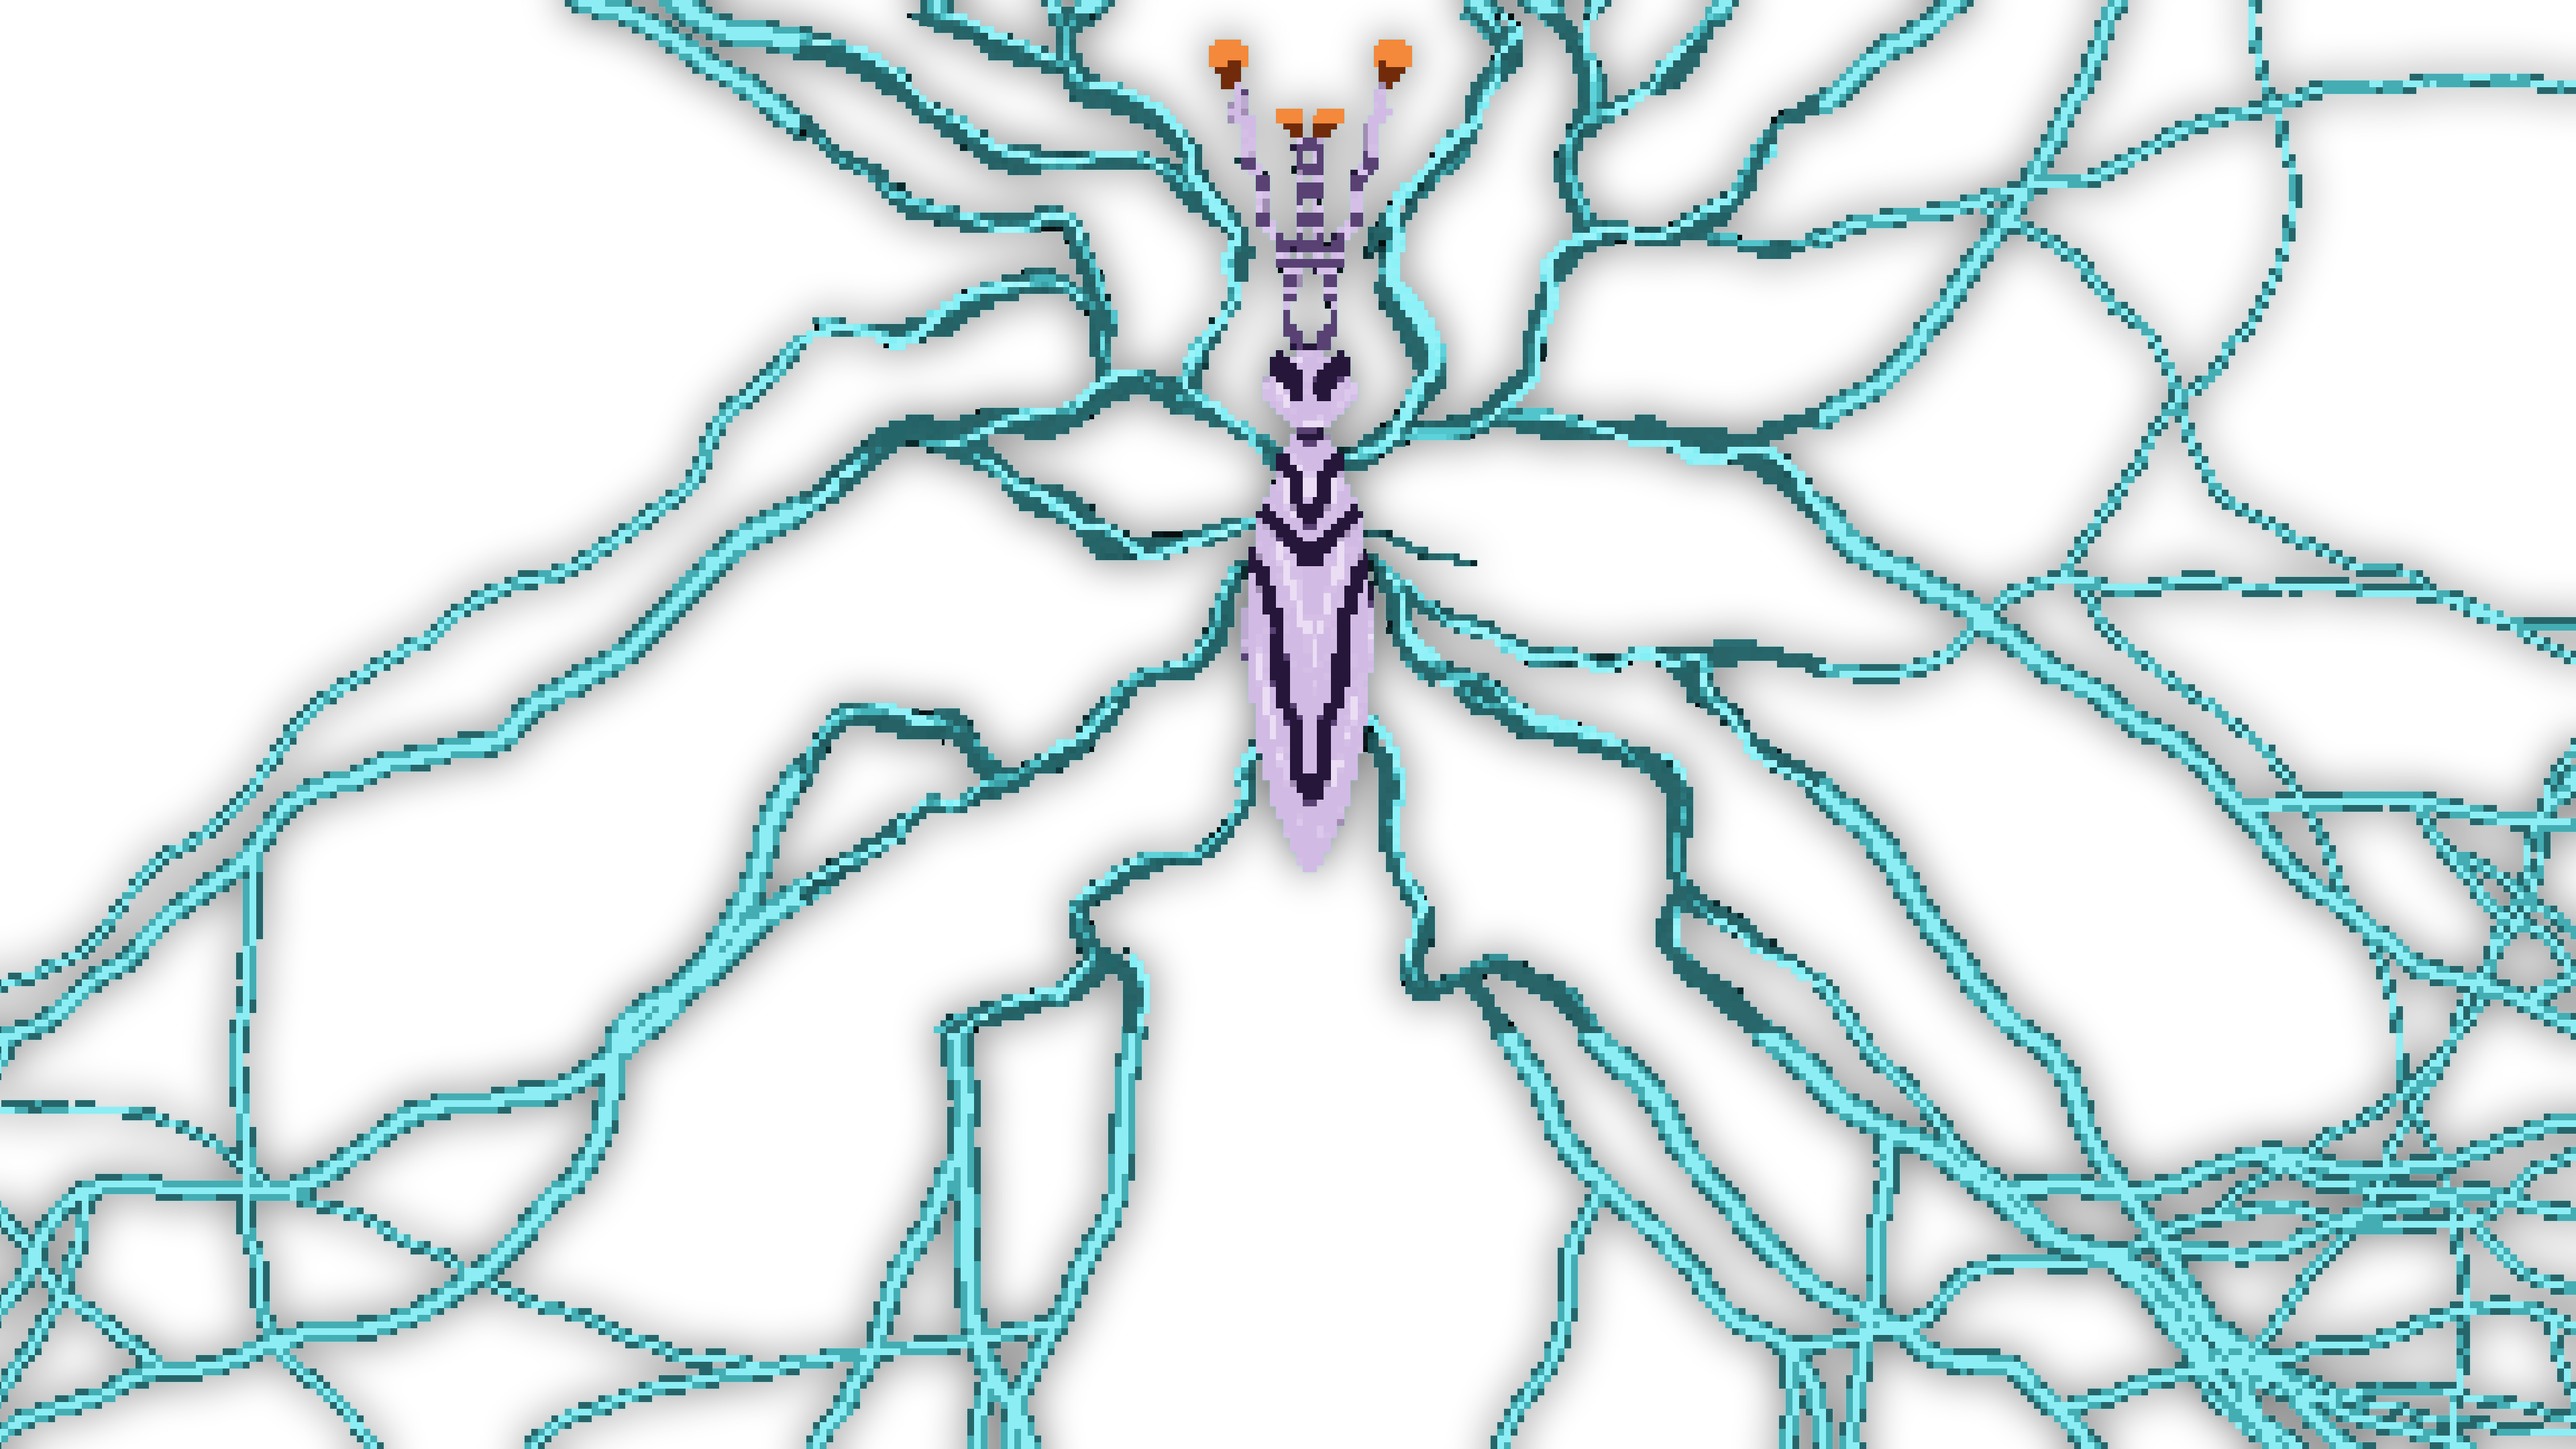
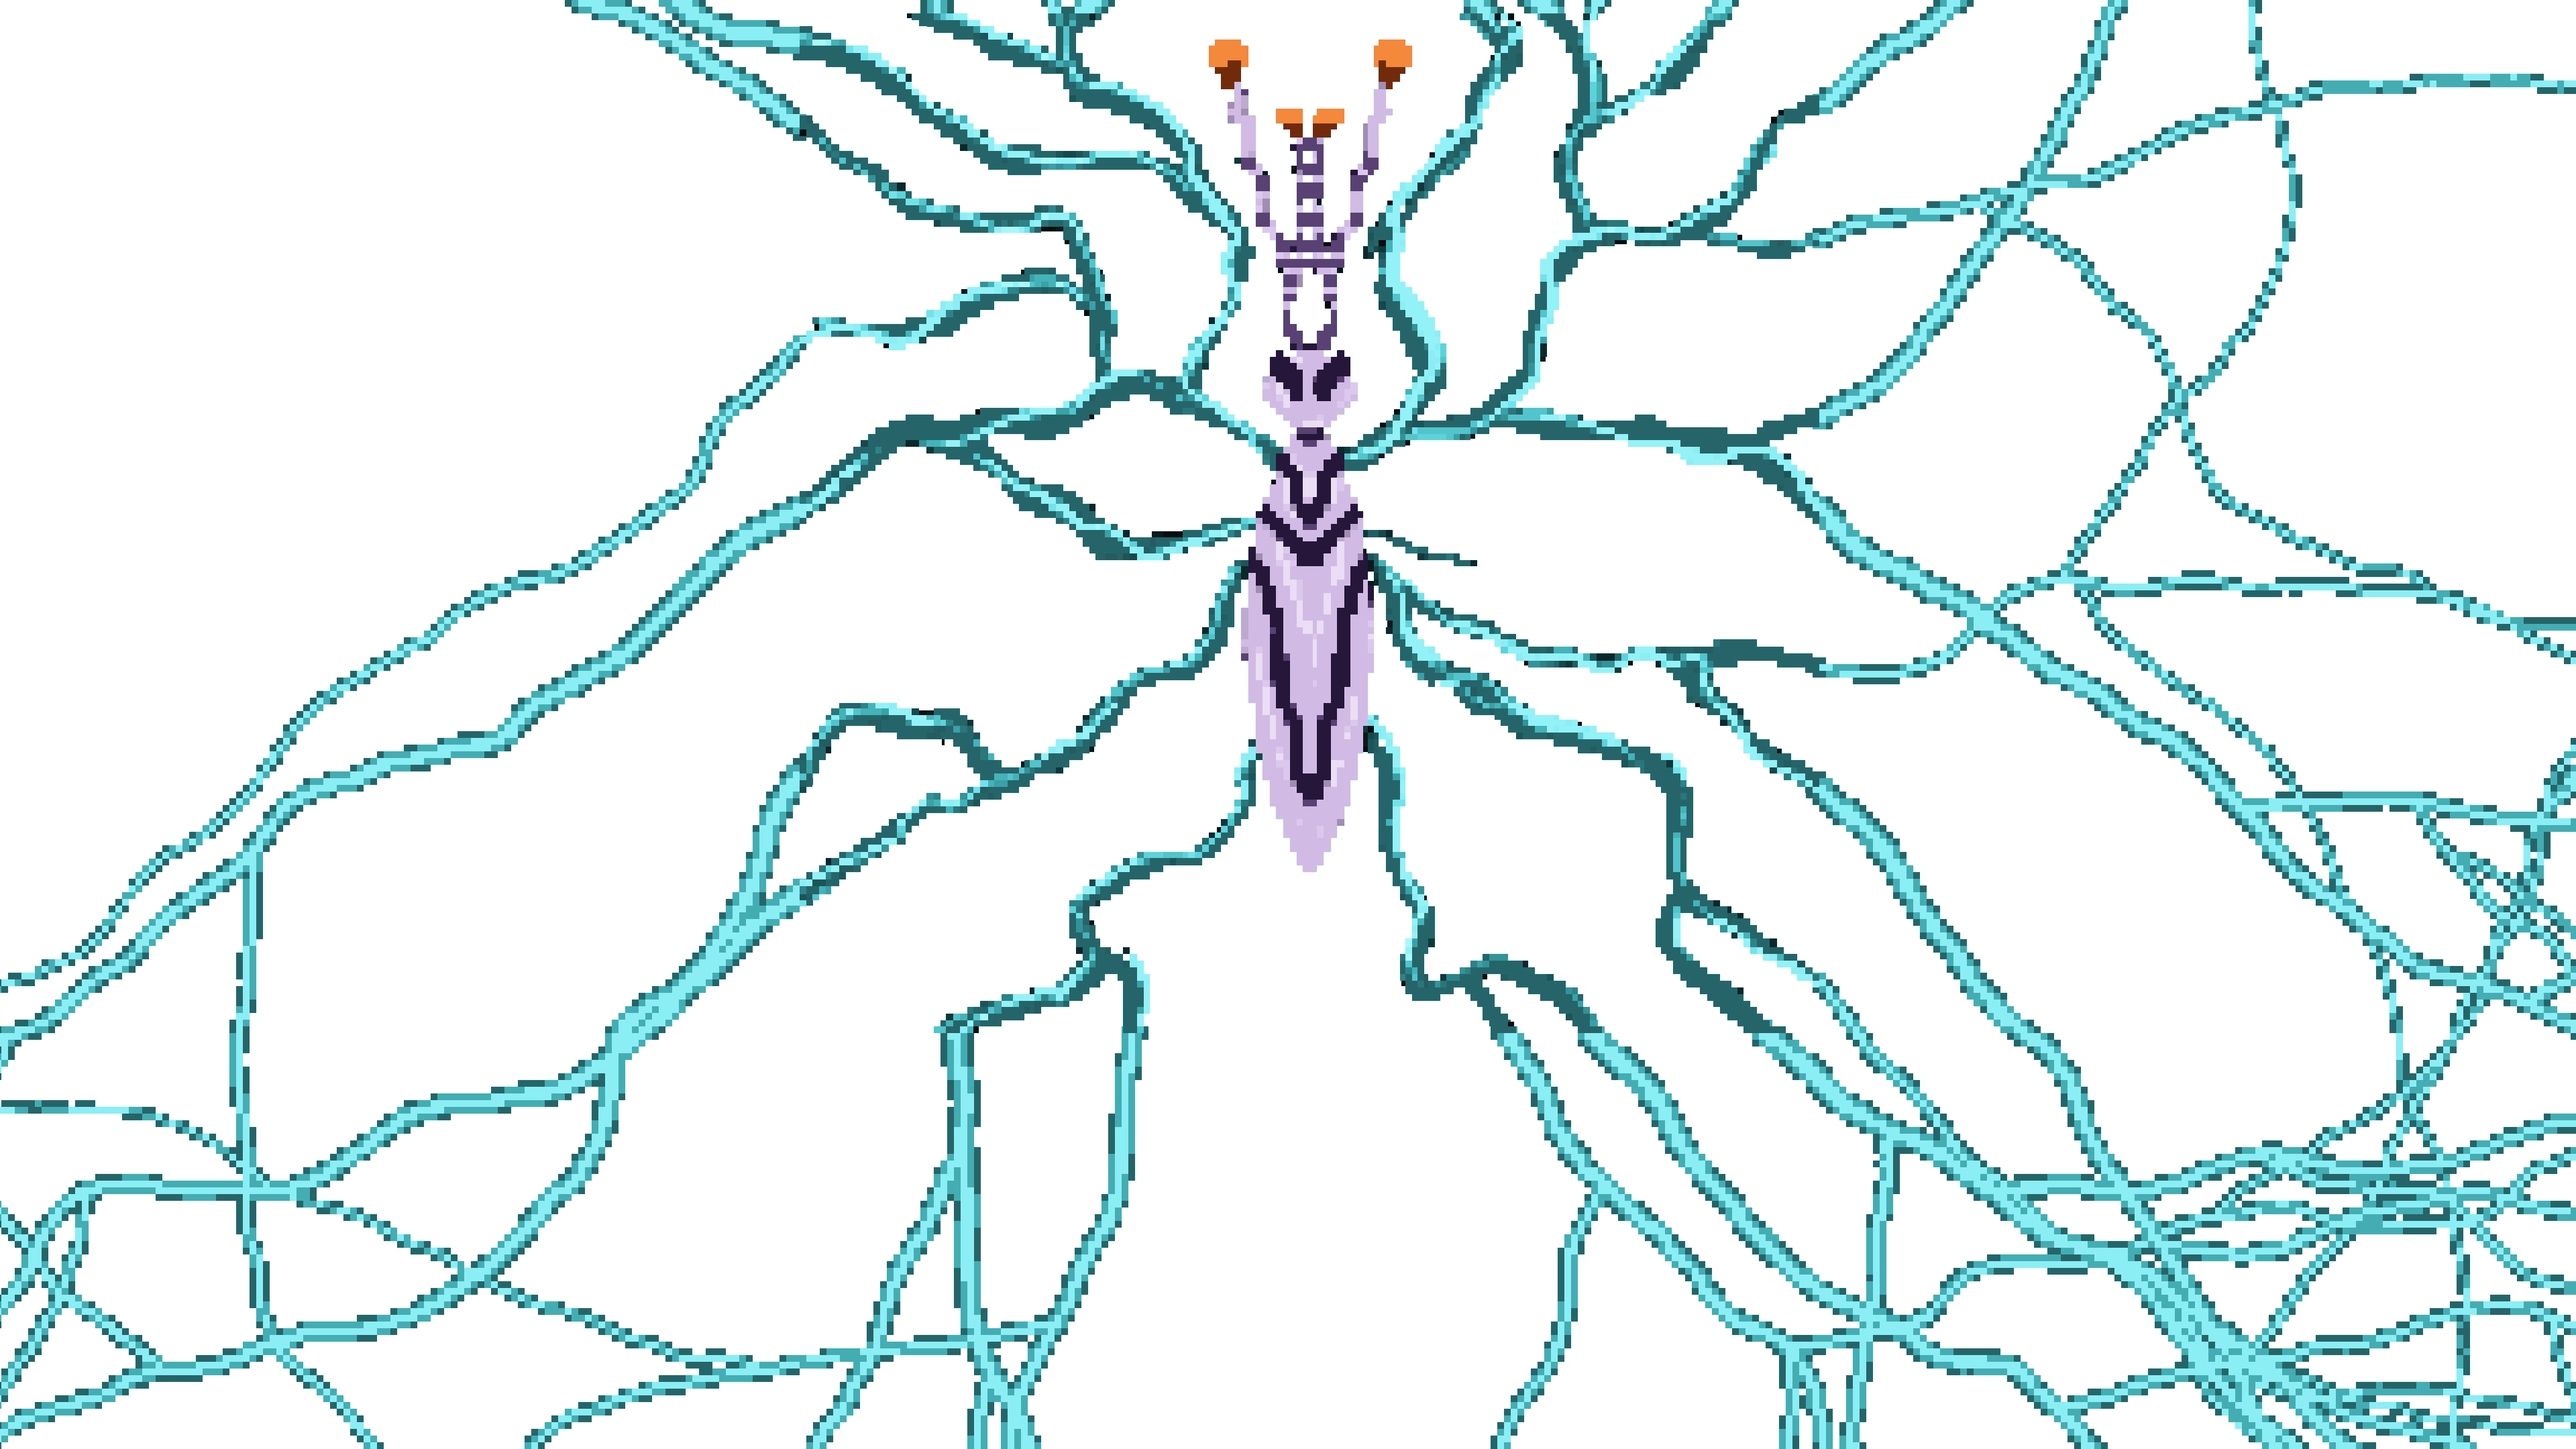
Kelebek Etkisi boss görseli küçüldü (P125)

Changed region(s): [[0.0, 0.0, 1.0, 1.0]]

diff --git a/index.html b/index.html
@@ -8,7 +8,7 @@
      Oyun kendi temalarını çizer; renklerine dokunulmasın. -->
 <meta name="color-scheme" content="only light">
 <title>OKEY Roguelike — Prototip</title>
-<link rel="stylesheet" href="style.css?v=8052e56">
+<link rel="stylesheet" href="style.css?v=a5c7233">
 <script>
 /* RENK TEMASI — İLK BOYAMADAN ÖNCE UYGULANIR.
    Tema `html[data-theme]` ile sürülüyor. Bu satır ui.js'e bırakılsaydı
@@ -517,10 +517,10 @@
   </div>
 
 </div>
-<script src="engine.js?v=8052e56"></script>
-<script src="i18n.js?v=8052e56"></script>
-<script src="pixelfx.js?v=8052e56"></script>
-<script src="ui.js?v=8052e56"></script>
-<script src="yenilikler.js?v=8052e56"></script>
+<script src="engine.js?v=a5c7233"></script>
+<script src="i18n.js?v=a5c7233"></script>
+<script src="pixelfx.js?v=a5c7233"></script>
+<script src="ui.js?v=a5c7233"></script>
+<script src="yenilikler.js?v=a5c7233"></script>
 </body>
 </html>
